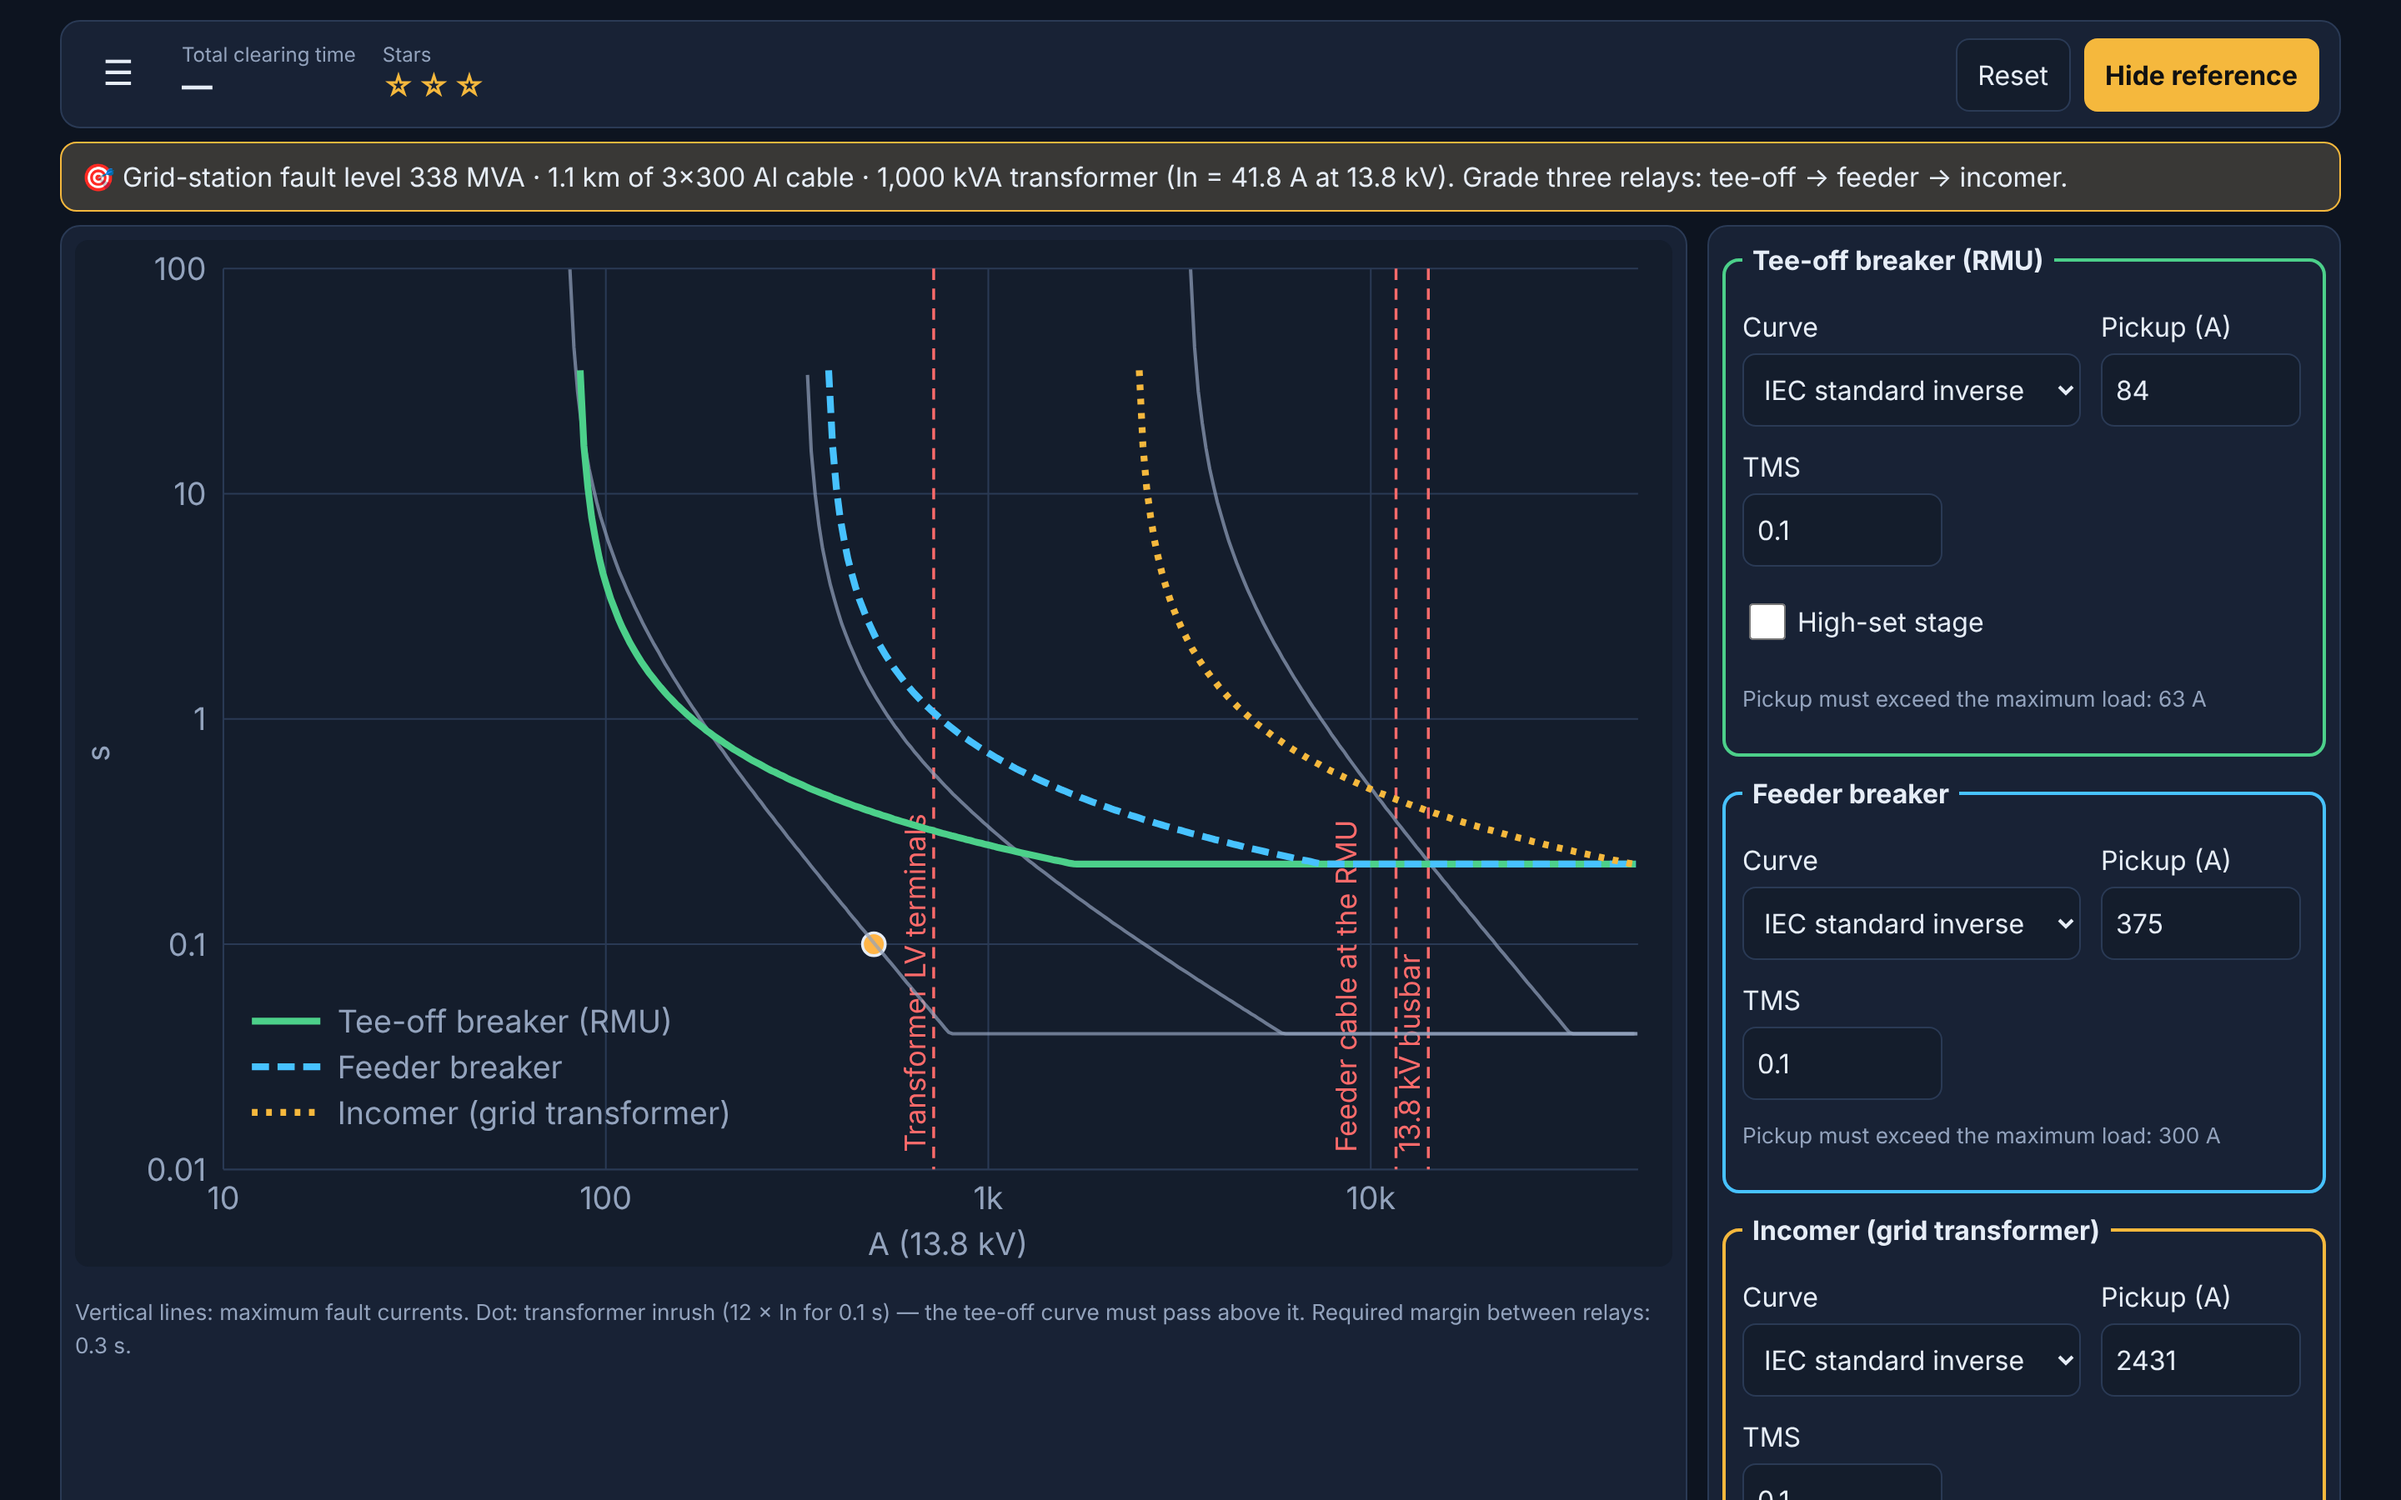
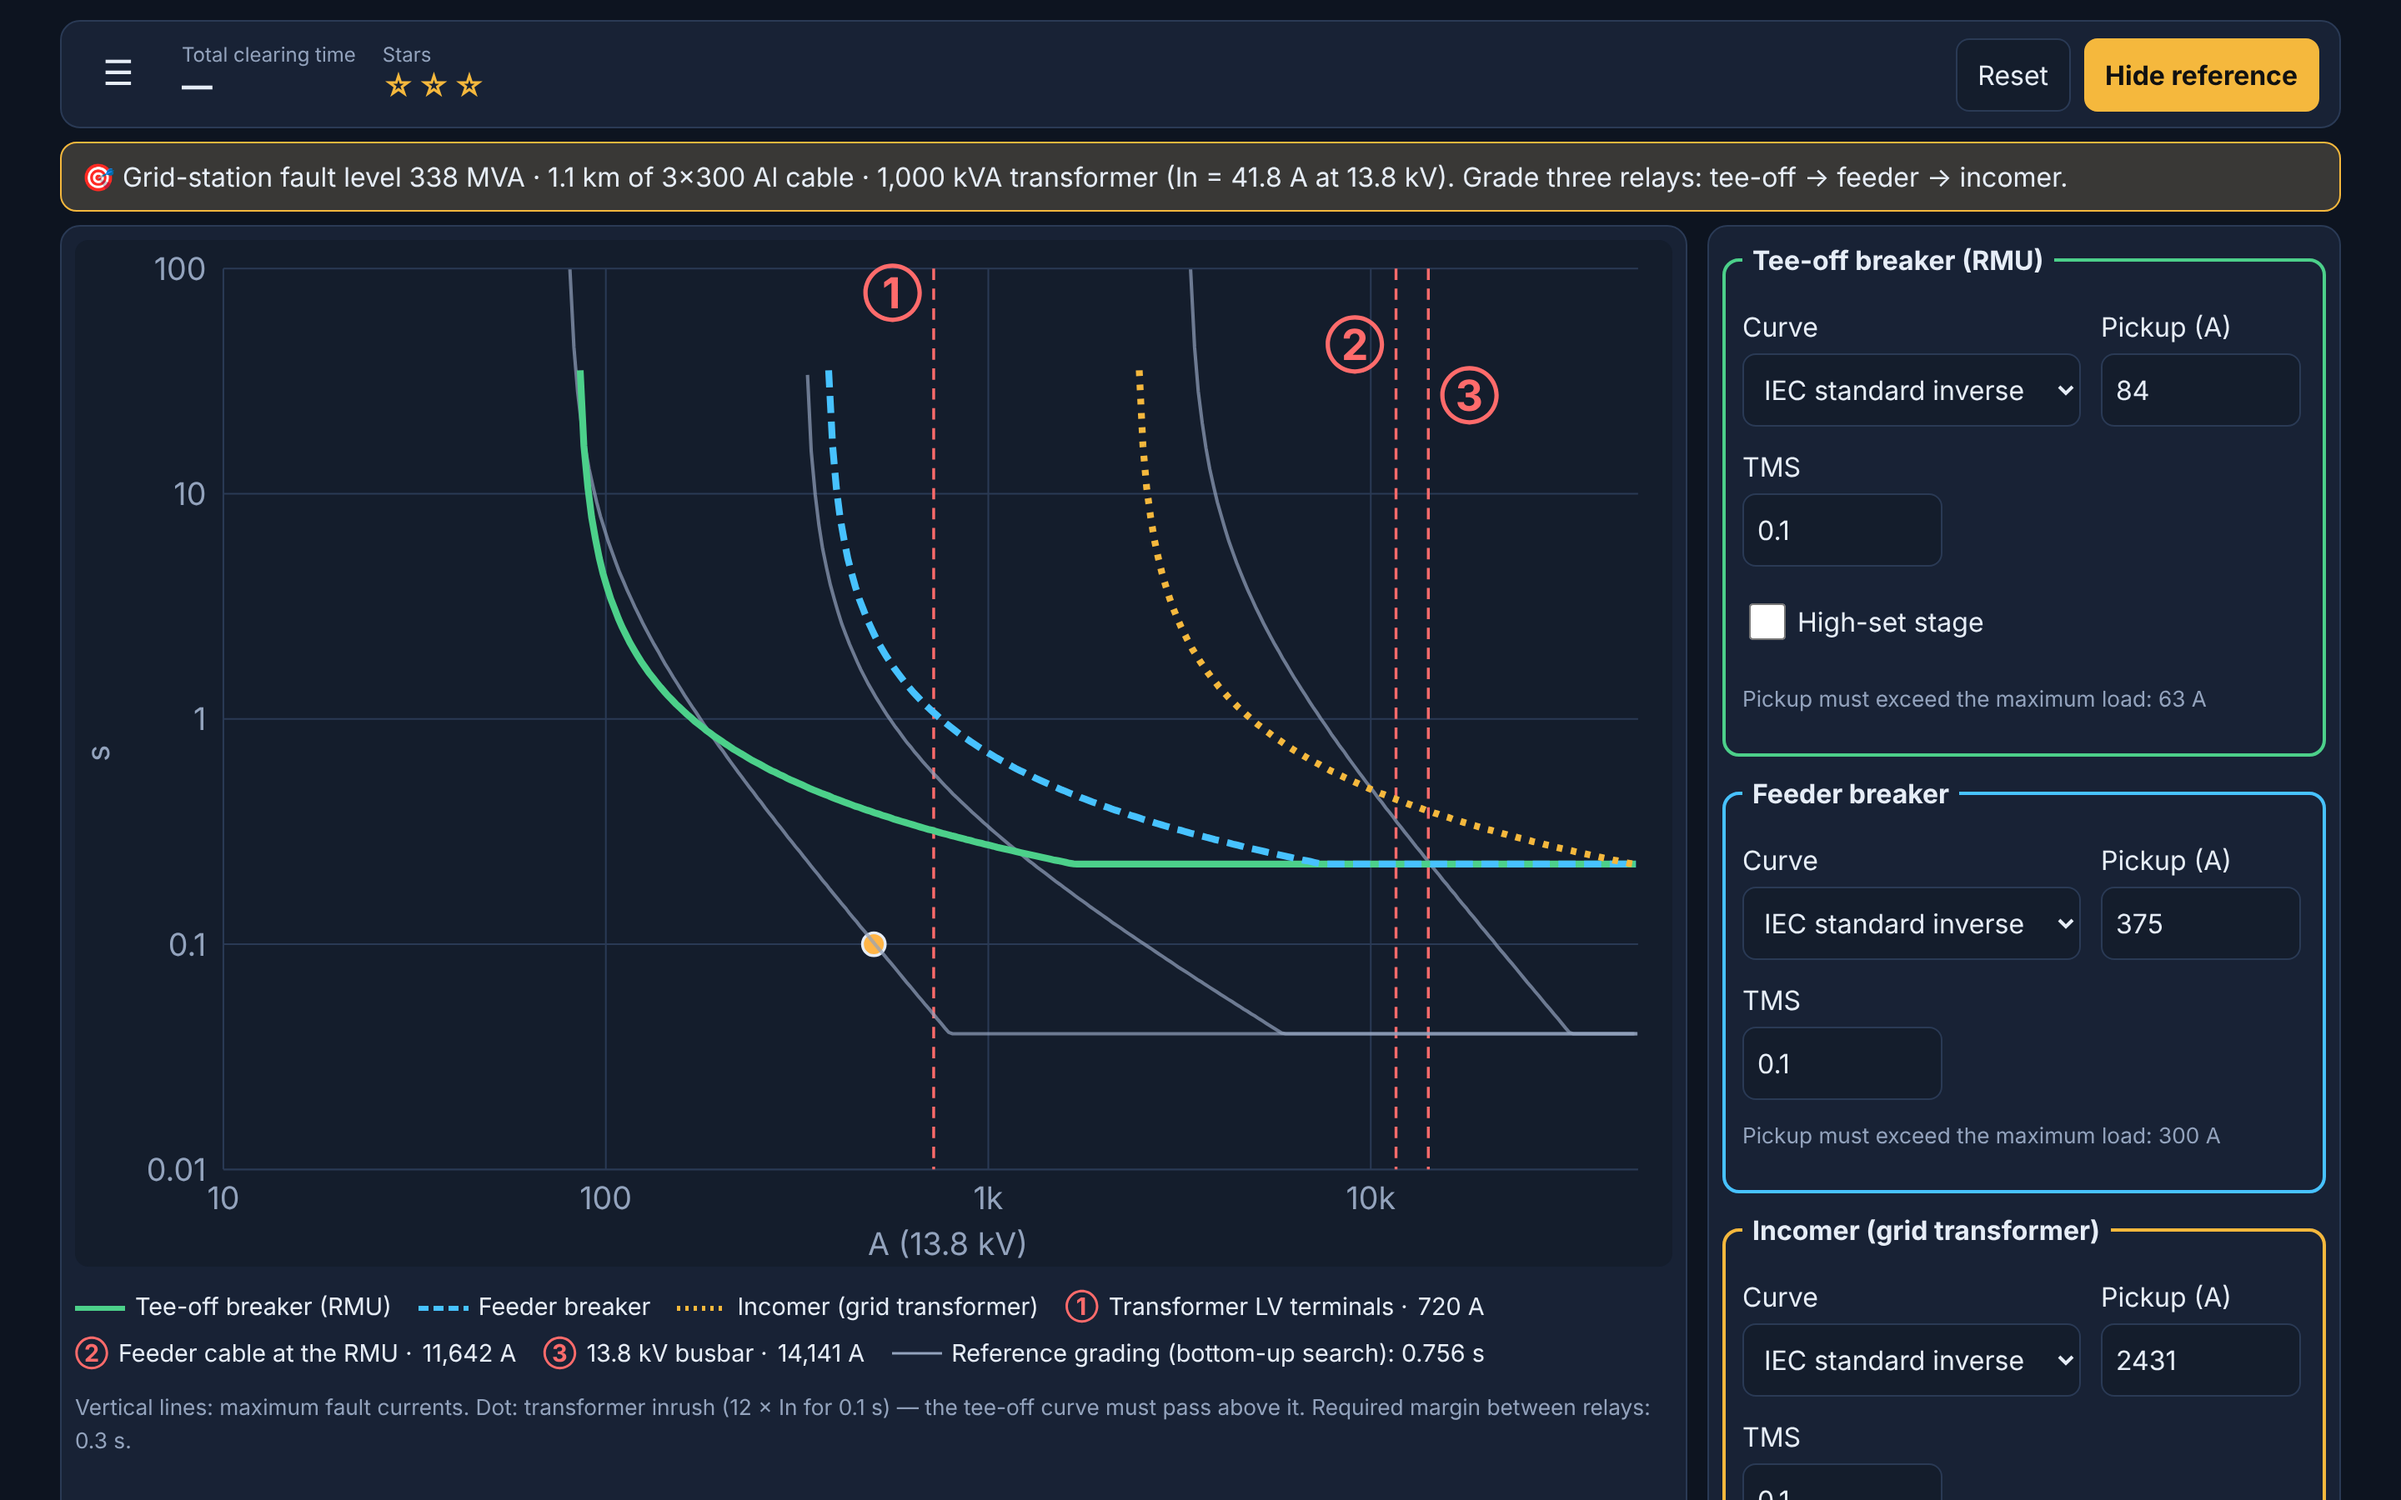
Grading: HTML legend (RTL-safe), staggered fault markers, bidi-isolated amperes
Claude-Session: https://claude.ai/code/session_01XPZyjLuU4kebUUFshKuEsv

diff --git a/src/ui/Grading.tsx b/src/ui/Grading.tsx
@@ -51,6 +51,11 @@ export function Grading({ seed, initial, onExit }: { seed: number; initial: stri
       <div class="board">
         <section class="map">
           <Tcc g={g} st={st} par={showPar && par ? par.settings : null} />
+          <ul class="tcc-legend">
+            {RELAYS.map((k) => <li key={k}><svg width="30" height="10" aria-hidden="true"><line x1="0" x2="30" y1="5" y2="5" stroke={COLORS[k]} stroke-width="3" stroke-dasharray={DASH[k]} /></svg> {t(`gr_${k}`)}</li>)}
+            {g.cases.filter((c) => c.level === 'max').map((c, i) => <li key={c.id}><b class="fault-key">{'①②③'[i]}</b> {t(`grCase_${c.where}`)} · <bdi dir="ltr">{fmt(c.iA)} A</bdi></li>)}
+            {showPar && <li><svg width="30" height="10" aria-hidden="true"><line x1="0" x2="30" y1="5" y2="5" stroke="var(--muted)" stroke-width="1.5" /></svg> {t('grPar', { s: fmt(parScore, 3) })}</li>}
+          </ul>
           <p class="muted small">{t('grLegend', { cti: fmt(CTI_S, 2), mult: fmt(INRUSH_MULT), ts: fmt(INRUSH_S, 2) })}</p>
         </section>
         <aside class="panel">
@@ -83,7 +88,7 @@ export function Grading({ seed, initial, onExit }: { seed: number; initial: stri
         <table class="metrics">
           <thead><tr><th>{t('grCase')}</th><th>{t('gr_T')}</th><th>{t('gr_F')}</th><th>{t('gr_I')}</th></tr></thead>
           <tbody>{g.cases.map((c) => (
-            <tr key={c.id}><th scope="row">{t(`grCase_${c.where}`)} · {t(`grLevel_${c.level}`)} · {fmt(c.iA)} A</th>
+            <tr key={c.id}><th scope="row">{t(`grCase_${c.where}`)} · {t(`grLevel_${c.level}`)} · <bdi dir="ltr">{fmt(c.iA)} A</bdi></th>
               {RELAYS.map((k) => { const tm = ev.times[c.id]![k]; return <td key={k} dir="ltr">{tm === undefined ? '' : Number.isFinite(tm) ? `${fmt(tm, 3)} s` : '—'}</td>; })}</tr>
           ))}</tbody>
         </table>
@@ -119,11 +124,10 @@ function Tcc({ g, st, par }: { g: ReturnType<typeof generateGrading>; st: Settin
       {yt.map((y) => <g key={y}><line x1={L} x2={W - R} y1={ly(y)} y2={ly(y)} class="grid" /><text x={L - 6} y={ly(y) + 4} text-anchor="end" class="axis">{y}</text></g>)}
       <text x={(W + L) / 2} y={H - 4} text-anchor="middle" class="axis">A (13.8 kV)</text>
       <text x={12} y={H / 2} text-anchor="middle" class="axis" transform={`rotate(-90 12 ${H / 2})`}>s</text>
-      {g.cases.filter((c) => c.level === 'max').map((c, i) => <g key={c.id}><line x1={lx(c.iA)} x2={lx(c.iA)} y1={T} y2={H - B} class="fault" /><text x={lx(c.iA) - 3 - 11 * (i % 2)} y={H - B - 6} class="axis fault-label" text-anchor="start" transform={`rotate(-90 ${lx(c.iA) - 3 - 11 * (i % 2)} ${H - B - 6})`}>{t(`grCase_${c.where}`)}</text></g>)}
+      {g.cases.filter((c) => c.level === 'max').map((c, i) => <g key={c.id}><line x1={lx(c.iA)} x2={lx(c.iA)} y1={T} y2={H - B} class="fault" /><text x={lx(c.iA) + (i === 2 ? 4 : -4)} y={T + 14 + i * 18} class="fault-label" text-anchor={i === 2 ? 'start' : 'end'}>{'①②③'[i]}</text></g>)}
       <circle cx={lx(INRUSH_MULT * g.inT)} cy={ly(INRUSH_S)} r={4} class="inrush"><title>{t('grInrush')}</title></circle>
       {par && RELAYS.map((k) => <path key={`p${k}`} d={path(par[k])} class="par" />)}
       {RELAYS.map((k) => <path key={k} d={path(st[k])} fill="none" stroke={COLORS[k]} stroke-width={2.4} stroke-dasharray={DASH[k]} />)}
-      {RELAYS.map((k, i) => <g key={`l${k}`}><line x1={L + 10} x2={L + 34} y1={H - B - 52 + i * 16} y2={H - B - 52 + i * 16} stroke={COLORS[k]} stroke-width={2.4} stroke-dasharray={DASH[k]} /><text x={L + 40} y={H - B - 48 + i * 16} class="axis">{t(`gr_${k}`)}</text></g>)}
     </svg>
   );
 }

diff --git a/src/styles.css b/src/styles.css
@@ -178,3 +178,8 @@ button:disabled { opacity: 0.5; cursor: not-allowed; }
 .grading .card { margin-top: 12px; }
 .row label.toggle { flex-direction: row; align-items: center; }
 .tcc .fault-label { fill: var(--off); font-size: 10px; }
+.tcc .fault-label { fill: var(--off); font-size: 15px; font-weight: 700; }
+.tcc-legend { list-style: none; padding: 0; margin: 8px 0; display: flex; flex-wrap: wrap; gap: 6px 16px; font-size: 0.9rem; }
+.tcc-legend li { display: flex; align-items: center; gap: 6px; }
+.fault-key { color: var(--off); }
+@media (max-width: 600px) { .tcc .axis { font-size: 16px; } }
